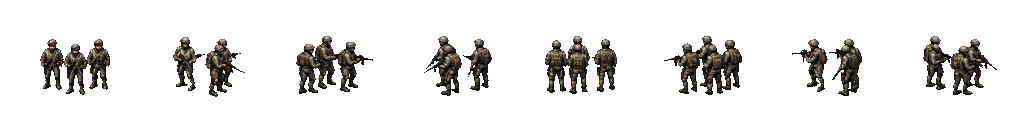
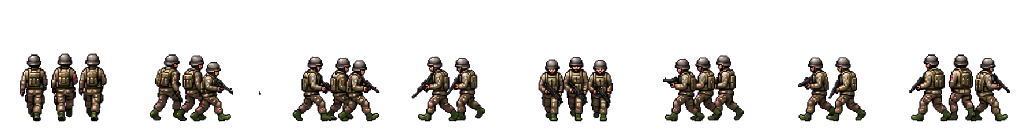
Polish infantry movement and visibility

diff --git a/apps/web/src/components/BattlefieldStage.tsx b/apps/web/src/components/BattlefieldStage.tsx
@@ -33,6 +33,7 @@ import {
   directionalSpriteGroundOffset,
   directionalVehicleSprite,
   directionNameForOrientation,
+  directionNameForScreenVector,
   leavesMechanicalWreck,
   rasterUnitOverride,
   rasterVehiclePose,
@@ -522,6 +523,9 @@ const unitSheetTexture = (
   cache.set(key, texture);
   return texture;
 };
+
+const lightInfantryIdlePath = (direction: string) =>
+  `/assets/generated/light_infantry_idle_${UNIT_SHEET_DIRECTIONS.includes(direction) ? direction : 'se'}.png`;
 
 const averageCornerHeight = (c: { hNW: number; hNE: number; hSE: number; hSW: number }) =>
   (c.hNW + c.hNE + c.hSE + c.hSW) / 4;
@@ -1949,8 +1953,11 @@ export function BattlefieldStage({
       setFollowTargetPx({ x: sp.x + (ISO_MODE ? isoBaseX : 0), y: sp.y });
     };
     panTo();
-    const id = window.setInterval(panTo, 33);
-    return () => window.clearInterval(id);
+    let frameId = window.requestAnimationFrame(function followMovement() {
+      panTo();
+      frameId = window.requestAnimationFrame(followMovement);
+    });
+    return () => window.cancelAnimationFrame(frameId);
   }, [movingUnit, attackEffects.length, isoBaseX]);
 
   // Camera panning control
@@ -4276,6 +4283,15 @@ export function BattlefieldStage({
   const unitTextureCache = useMemo(() => new Map<string, Texture>(), []);
   const propAtlasTextures = useMemo(getPropAtlasTextures, []);
 
+  useEffect(() => {
+    for (const direction of UNIT_SHEET_DIRECTIONS) {
+      const path = lightInfantryIdlePath(direction);
+      if (!unitTextureCache.has(path)) {
+        unitTextureCache.set(path, crispTexture(Texture.from(path)));
+      }
+    }
+  }, [unitTextureCache]);
+
 
   const deathMarkerSprites = useMemo(() => {
     if (deathMarkers.size === 0) return null;
@@ -4463,7 +4479,7 @@ export function BattlefieldStage({
     const from = pointFor(selectedUnit);
     const to = pointFor(targetUnit);
     const explicitTarget = targetHitChance !== undefined;
-    const aimColor = targetLethal ? 0xff5747 : 0xffe27a;
+    const aimColor = targetLethal ? 0xff5747 : 0x91bac2;
     const readout = explicitTarget
       ? `${Math.round((targetHitChance ?? 0) * 100)}%${targetDamagePreview !== undefined ? `  -${targetDamagePreview}` : ''}${targetLethal ? `  ${t('combat.kill')}` : ''}`
       : '';
@@ -4746,8 +4762,12 @@ export function BattlefieldStage({
           }
         }
 
-        const stepWave = movingThisUnit ? Math.sin(movementPhase * Math.PI * 2) : 0;
-        const fastWave = movingThisUnit ? Math.sin(movementPhase * Math.PI * 4) : 0;
+        const stridePhase = movingThisUnit && movingUnit?.unitId === unit.id
+          ? Math.max(0, now - movingUnit.startTime - (movingUnit.preAlignDuration ?? 0)) / 280
+          : movementPhase;
+        const locomotionPhase = isGroundVehicle ? movementPhase : stridePhase;
+        const stepWave = movingThisUnit ? Math.sin(locomotionPhase * Math.PI * 2) : 0;
+        const fastWave = movingThisUnit ? Math.sin(locomotionPhase * Math.PI * 4) : 0;
         const strideLift = Math.abs(stepWave);
         const p = toScreen(displayCoord);
         const displayQ = Math.min(map.width - 1, Math.max(0, Math.round(displayCoord.q)));
@@ -4763,15 +4783,18 @@ export function BattlefieldStage({
         const isSelected = unit.id === selectedUnitId;
         const isSelectedCarrier = unit.id === selectedEmbarkedCarrierId;
         const isTarget = unit.id === targetUnitId;
-        // Sort by real screen-Y so units/buildings interleave by true depth; a tiny tie-break keeps a
-        // selected/moving/targeted unit above same-tile clutter (death marker, prop) without the old
-        // +5000 that made it punch through everything down-screen. Reveal-through behind buildings is
-        // still handled by the unitOccluded alpha fade below.
-        const worldZ = Math.round(y) + (isSelected || isSelectedCarrier || isTarget || movingThisUnit ? 2 : 0);
+        const movementTransitionActive = movingUnit?.unitId === unit.id && activeMovementFrame !== null;
         const tileIndex = displayR * map.width + displayQ;
         const isVisible = visibleTiles.has(tileIndex);
         const isFriendly = unit.faction === viewerFaction;
         const readableInFog = isFriendly && !isVisible;
+        // Sort by real screen-Y so units/buildings interleave by true depth; a tiny tie-break keeps a
+        // selected/targeted unit above same-tile clutter. A moving friendly that crosses remembered
+        // terrain temporarily gets a reveal layer; otherwise stacked canopies can hide the squad while
+        // its selection ring keeps moving on bare ground.
+        const revealMovingFriendly = movementTransitionActive && readableInFog;
+        const worldZ = Math.round(y)
+          + (revealMovingFriendly ? 5000 : isSelected || isSelectedCarrier || isTarget || movingThisUnit ? 2 : 0);
         const isDestroyed = unit.stance === 'destroyed';
         const isEmbarked = Boolean(unit.embarkedOn);
         const incomingHit = attackEffects.find((effect) => {
@@ -5179,27 +5202,46 @@ export function BattlefieldStage({
                 : DIRECTIONAL_UNIT_SPRITES[defId] ?? vehicleDirectionalSprite;
               const isFootUnit = unitType === 'infantry' || (unitType === 'support' && !isSupportVehicle) || unitType === 'hero';
               const isVehicleUnit = isGroundVehicle;
+              const footMovementDirection = directionNameForScreenVector(moveScreenVector);
+              const readableFootMovementDirection = footMovementDirection === 'n'
+                ? 'nw'
+                : footMovementDirection === 's'
+                  ? 'se'
+                  : footMovementDirection;
               const spriteDirection = isVehicleUnit && directionalSprite === 'm113_apc'
                 ? vehicleSheetDirectionNameForOrientation(animatedOrientation, directionalSprite)
                 : isVehicleUnit && movingThisUnit
                   ? vehicleSheetDirectionNameForScreenVector(moveScreenVector, directionalSprite ?? '')
                   : isVehicleUnit
                     ? vehicleSheetDirectionNameForOrientation(animatedOrientation, directionalSprite ?? '')
+                    : movementTransitionActive
+                      ? readableFootMovementDirection
                     : directionNameForOrientation(animatedOrientation);
               const usesDirectionalMotion = Boolean(directionalSprite && (isFootUnit || isVehicleUnit));
-              const sheetState = (movingThisUnit || turningThisUnit) && usesDirectionalMotion ? 'walk' : 'idle';
+              const sheetState = (movementTransitionActive || turningThisUnit) && usesDirectionalMotion ? 'walk' : 'idle';
               const textureSheetState = directionalSprite === 'apc_directional' ? 'idle' : sheetState;
               const animatesVehicleFrames = isVehicleUnit && directionalSprite !== 'apc_directional';
               const sheetFrame = textureSheetState === 'walk' && (!isVehicleUnit || animatesVehicleFrames)
-                ? Math.floor((((movementPhase % 1) + 1) % 1) * 4)
+                ? Math.floor((((locomotionPhase % 1) + 1) % 1) * 4)
                 : 0;
               let texture: Texture | null = null;
+              let settlingTexture: Texture | null = null;
 
               if (directionalSprite) {
                 desiredH = unitVisualHeight(tileSize, unitType, defId, directionalSprite);
                 anchorY = DIRECTIONAL_UNIT_ANCHOR_Y[directionalSprite] ?? 0.9;
                 canMirrorForFacing = false;
-                texture = unitSheetTexture(unitTextureCache, directionalSprite, textureSheetState, spriteDirection, sheetFrame);
+                const standaloneIdlePath = directionalSprite === 'light_infantry'
+                  ? lightInfantryIdlePath(spriteDirection)
+                  : null;
+                texture = standaloneIdlePath && textureSheetState === 'idle'
+                  ? (unitTextureCache.get(standaloneIdlePath) ?? crispTexture(Texture.from(standaloneIdlePath)))
+                  : unitSheetTexture(unitTextureCache, directionalSprite, textureSheetState, spriteDirection, sheetFrame);
+                if (movementTransitionActive && (standaloneIdlePath !== null || (!movingThisUnit && !turningThisUnit))) {
+                  settlingTexture = standaloneIdlePath
+                    ? (unitTextureCache.get(standaloneIdlePath) ?? crispTexture(Texture.from(standaloneIdlePath)))
+                    : unitSheetTexture(unitTextureCache, directionalSprite, 'idle', spriteDirection, 0);
+                }
               } else if (unitType === 'vehicle') {
                 desiredH = unitVisualHeight(tileSize, unitType, defId);
                 anchorY = 0.95;
@@ -5307,19 +5349,19 @@ export function BattlefieldStage({
               const routed = unit.stance === 'routed';
               const cowed = suppressed || routed;
               const cowerShudder = cowed && isFootUnit ? Math.sin(now / 90) * 1.1 : 0;
-              const spriteBobY = (isFootUnit ? -strideLift * (directionalSprite ? 3.2 : 3.6) : unitType === 'air' ? stepWave * 1.4 : -vehicleRumbleY);
-              const spriteSwayX = (isFootUnit ? stepWave * 1.65 : isVehicleUnit ? moveScreenVector.x * vehicleTrackJitter : 0) + hitOffsetX + shotOffsetX + cowerShudder;
+              const spriteBobY = (isFootUnit ? -strideLift * (directionalSprite ? 5 : 3.6) : unitType === 'air' ? stepWave * 1.4 : -vehicleRumbleY);
+              const spriteSwayX = (isFootUnit ? stepWave * 2.3 : isVehicleUnit ? moveScreenVector.x * vehicleTrackJitter : 0) + hitOffsetX + shotOffsetX + cowerShudder;
               const spriteCombatY = hitOffsetY + shotOffsetY + (cowed && isFootUnit ? Math.sin(now / 60) * 0.6 : 0);
               const locomotionRotation = isFootUnit && movingThisUnit
-                ? -moveScreenVector.x * stepWave * 0.052
+                ? -moveScreenVector.x * stepWave * 0.075
                 : isVehicleUnit && movingThisUnit ? fastWave * 0.011 : vehicleTurnLean;
               const spriteRotation = (vehiclePose ? vehiclePose.rotation : 0) + locomotionRotation + (routed ? -Math.sign(moveScreenVector.x || 1) * 0.12 : 0);
               // Volume-preserving impact squash: the struck unit compresses vertically / bulges wide at
               // the moment of contact and springs back as the hit pulse decays. Vehicles jello half as much.
               const hitSquash = incomingHit ? Math.sin(Math.min(1, hitElapsed / 180) * Math.PI) * hitPulse : 0;
               const squashAmt = (unitType === 'vehicle' || unitType === 'artillery') ? 0.5 : 1;
-              const squashX = (isFootUnit ? 1 + stepWave * 0.035 : 1) * (cowed ? 1.04 : 1) * (1 + hitSquash * 0.16 * squashAmt);
-              const squashY = (isFootUnit ? 1 - stepWave * 0.026 : 1) * (cowed ? 0.9 : 1) * (1 - hitSquash * 0.20 * squashAmt);
+              const squashX = (isFootUnit ? 1 + stepWave * 0.052 : 1) * (cowed ? 1.04 : 1) * (1 + hitSquash * 0.16 * squashAmt);
+              const squashY = (isFootUnit ? 1 - stepWave * 0.044 : 1) * (cowed ? 0.9 : 1) * (1 - hitSquash * 0.20 * squashAmt);
               const scaleX = (facingLeft ? -baseScale : baseScale) * squashX;
               // Death animation clock: one normalized 0→1 ramp over 2.1s from the killing blow, driving a
               // per-archetype death — infantry topple & sink, undead/demons dissolve & drift up, vehicles
@@ -5366,12 +5408,12 @@ export function BattlefieldStage({
               unitSpriteTopY = spriteBaseY + groundOffsetY - anchorY * desiredH;
               unitVisibleTopY = unitSpriteTopY + spriteContentTopFrac(texture) * desiredH;
               const silhouetteAlpha = readableInFog
-                ? (isGroundVehicle ? 0.5 : 0.44)
+                ? (isGroundVehicle ? 0.5 : 0.62)
                 : isVisible && isFootUnit
                   ? 0.32
                   : 0;
-              const silhouetteTint = readableInFog ? 0xa8cfc2 : 0x050605;
-              const silhouetteScale = readableInFog ? 1.055 : 1.025;
+              const silhouetteTint = 0x050605;
+              const silhouetteScale = readableInFog ? 1.07 : 1.025;
               return (
                 <>
                   {silhouetteAlpha > 0 ? (
@@ -5387,7 +5429,7 @@ export function BattlefieldStage({
                       zIndex={0.8}
                     />
                   ) : null}
-                  {isFootUnit && (isVisible || readableInFog) ? (
+                  {isFootUnit && isVisible ? (
                     <Sprite
                       texture={texture}
                       anchor={{ x: 0.5, y: anchorY }}
@@ -5400,49 +5442,32 @@ export function BattlefieldStage({
                       zIndex={0.9}
                     />
                   ) : null}
-                  {isFriendly && isFootUnit ? (
-                    <Graphics
-                      x={spriteSwayX}
-                      y={spriteBaseY + groundOffsetY + spriteBobY + spriteCombatY}
-                      zIndex={0.96}
-                      draw={(g) => {
-                        g.clear();
-                        const stride = movingThisUnit ? stepWave * tileSize * 0.018 : 0;
-                        for (const [index, offset] of [-0.13, 0, 0.13].entries()) {
-                          const figureX = offset * tileSize;
-                          const phase = index % 2 === 0 ? stride : -stride;
-                          g.lineStyle(2.4, 0x07100e, readableInFog ? 0.68 : 0.42);
-                          g.moveTo(figureX, -tileSize * 0.13);
-                          g.lineTo(figureX, -tileSize * 0.015);
-                          g.moveTo(figureX, -tileSize * 0.02);
-                          g.lineTo(figureX - tileSize * 0.035 + phase, tileSize * 0.055);
-                          g.moveTo(figureX, -tileSize * 0.02);
-                          g.lineTo(figureX + tileSize * 0.035 - phase, tileSize * 0.055);
-                          g.beginFill(0x9fc7b7, readableInFog ? 0.72 : 0.46);
-                          g.drawCircle(figureX, -tileSize * 0.19, tileSize * 0.032);
-                          g.drawRoundedRect(
-                            figureX - tileSize * 0.032,
-                            -tileSize * 0.155,
-                            tileSize * 0.064,
-                            tileSize * 0.13,
-                            2
-                          );
-                          g.endFill();
-                        }
-                      }}
-                    />
-                  ) : null}
                   <Sprite
                     texture={texture}
                     anchor={{ x: 0.5, y: anchorY }}
                     scale={{ x: scaleX * deathScaleX, y: baseScale * squashY * deathScaleY }}
-                    alpha={(isVisible ? 1 : readableInFog ? 0.98 : 0.72) * deathAlphaMul}
+                    alpha={(isFriendly ? 1 : isVisible ? 1 : 0.72) * deathAlphaMul}
                     tint={deathTint !== null ? deathTint : suppressed ? 0xb9b2a4 : routed ? 0xc7a39c : spriteTint}
                     x={spriteSwayX}
                     y={spriteBaseY + groundOffsetY + spriteBobY + spriteCombatY + deathSinkY}
                     rotation={spriteRotation + deathRotation}
                     zIndex={1}
                   />
+                  {settlingTexture ? (
+                    <Sprite
+                      texture={settlingTexture}
+                      anchor={{ x: 0.5, y: anchorY }}
+                      scale={{ x: scaleX * deathScaleX, y: baseScale * squashY * deathScaleY }}
+                      alpha={(directionalSprite === 'light_infantry' && movingThisUnit
+                        ? (readableInFog ? 1 : 0.28)
+                        : 1) * deathAlphaMul}
+                      tint={spriteTint}
+                      x={spriteSwayX}
+                      y={spriteBaseY + groundOffsetY + spriteBobY + spriteCombatY + deathSinkY}
+                      rotation={spriteRotation + deathRotation}
+                      zIndex={readableInFog ? 1.12 : 0.98}
+                    />
+                  ) : null}
                   {outgoingShot ? (
                     <Sprite
                       texture={texture}
@@ -6385,7 +6410,19 @@ export function BattlefieldStage({
           const tDiff = prop.coordinate.q - prop.coordinate.r;
           return sum >= tSum - 4 && sum <= tSum && diff >= tDiff - 1 && diff <= tDiff + 1;
         });
-        const occludeAlpha = treeOccluded ? 0.34 : 1;
+        const movingUnitBehindCanopy = prop.kind === 'tree' && movementOcclusionCoordinate !== null && (() => {
+          const unitPosition = toScreen(movementOcclusionCoordinate);
+          const unitGeom = topGeomFor(
+            Math.round(movementOcclusionCoordinate.q),
+            Math.round(movementOcclusionCoordinate.r)
+          );
+          const unitX = unitPosition.x;
+          const unitY = unitPosition.y - unitGeom.avgHeight * ELEV_Y_OFFSET;
+          return Math.abs(unitX - worldX) <= tileSize * 0.62
+            && unitY <= worldY + tileSize * 0.12
+            && unitY >= worldY - tileSize * 1.45;
+        })();
+        const occludeAlpha = movingUnitBehindCanopy ? 0.1 : treeOccluded ? 0.34 : 1;
 
         return (
           <Container key={prop.id} x={worldX} y={worldY} zIndex={zIndex} sortableChildren>

diff --git a/apps/web/src/components/unitVisuals.ts b/apps/web/src/components/unitVisuals.ts
@@ -45,6 +45,7 @@ export const UNIT_SHEET_DIRECTIONS = ['n', 'ne', 'e', 'se', 's', 'sw', 'w', 'nw'
 export const UNIT_SHEET_FRAME_SIZE = 128;
 
 export const DIRECTIONAL_UNIT_ASSET_VERSION: Record<string, string> = {
+  light_infantry: 'light-infantry-generated-20260721-4',
   m113_apc: 'm113-generated-20260503-1'
 };
 
@@ -235,7 +236,7 @@ export function unitPortrait(unitType: string, definitionId: string, isFriendly:
 export const DIRECTIONAL_UNIT_ANCHOR_Y: Record<string, number> = {
   artillery_directional: 0.93,
   heavy_infantry: 0.92,
-  light_infantry: 0.74,
+  light_infantry: 0.95,
   m113_apc: 1,
   rangers: 0.77,
   apc_directional: 1,
@@ -428,7 +429,7 @@ export function unitVisualHeight(tile: number, unitType: string, definitionId: s
     if (definitionId.includes('dire') || definitionId.includes('wolf')) return tile * 0.52;
     if (definitionId.includes('salamander')) return tile * 0.5;
     if (definitionId.includes('demon-engine')) return tile * 0.55;
-    if (directionalSprite === 'm113_apc') return tile * 0.43;
+    if (directionalSprite === 'm113_apc') return tile * 0.47;
     if (directionalSprite === 'apc_directional') return tile * 0.398;
     if (definitionId.includes('heli') || definitionId.includes('apache') || definitionId.includes('chopper')) return tile * 0.58;
     if (definitionId.includes('truck') || definitionId.includes('apc') || definitionId.includes('ifv') || definitionId.includes('m113')) return tile * 0.455;
@@ -441,6 +442,7 @@ export function unitVisualHeight(tile: number, unitType: string, definitionId: s
   if (definitionId.includes('ghoul') || definitionId.includes('zombie') || definitionId.includes('undead')) return tile * 0.46;
   if (definitionId.includes('golem') || definitionId.includes('ogre') || definitionId.includes('brute')) return tile * 0.74;
   if (directionalSprite === 'heavy_infantry') return tile * 0.45;
+  if (directionalSprite === 'light_infantry') return tile * 0.68;
   if (directionalSprite === 'rangers') return tile * 0.56;
   if (definitionId.includes('exo')) return tile * 0.6; // power-armor troopers are bulkier
   if (definitionId.includes('sniper') || definitionId.includes('scout')) return tile * 0.31;
